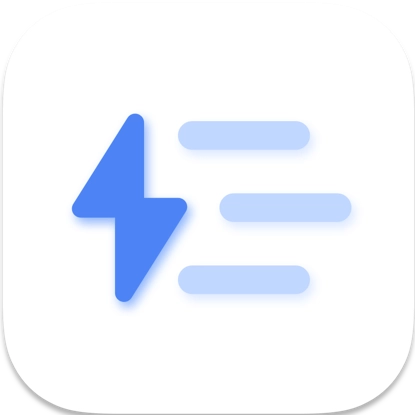
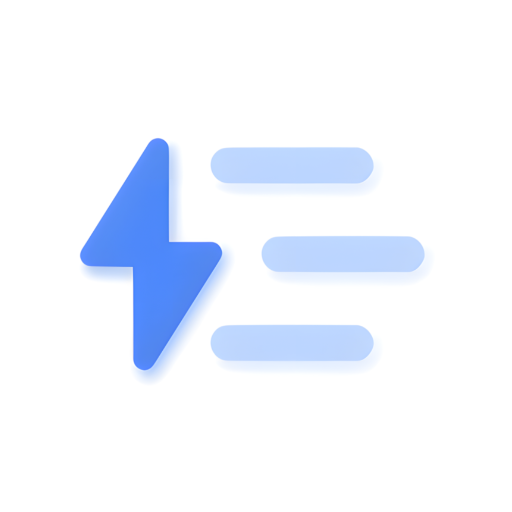
feat(startup): 添加开机自启功能
通过 HKCU Run 注册表键实现开机自启，同步设置状态，并在设置页面添加开关控制

diff --git a/src/win32/startup.rs b/src/win32/startup.rs
@@ -1,0 +1,158 @@
+//! Current-user autostart via `HKCU\\Software\\Microsoft\\Windows\\CurrentVersion\\Run`.
+
+use anyhow::{Context, Result, bail};
+use windows::Win32::Foundation::ERROR_FILE_NOT_FOUND;
+use windows::Win32::System::Registry::{
+    HKEY, HKEY_CURRENT_USER, KEY_SET_VALUE, KEY_WRITE, REG_OPTION_NON_VOLATILE, REG_SAM_FLAGS,
+    REG_SZ, RRF_RT_REG_SZ, RegCloseKey, RegCreateKeyExW, RegDeleteValueW, RegGetValueW,
+    RegSetValueExW,
+};
+use windows::core::{Error, PCWSTR};
+
+use crate::settings::Settings;
+use crate::version::PROCESS_BASE_NAME;
+
+const RUN_KEY_PATH: &str = "Software\\Microsoft\\Windows\\CurrentVersion\\Run";
+
+fn wide_null(s: &str) -> Vec<u16> {
+    s.encode_utf16().chain(std::iter::once(0)).collect()
+}
+
+fn win32_ok(status: windows::Win32::Foundation::WIN32_ERROR) -> Result<()> {
+    if status.is_ok() {
+        Ok(())
+    } else {
+        Err(Error::from(status).into())
+    }
+}
+
+/// Command line written to the Run key (quoted when the path contains spaces).
+pub fn startup_command() -> Result<String> {
+    let exe = std::env::current_exe().context("current_exe unavailable")?;
+    let path = exe.display().to_string();
+    Ok(if path.contains(' ') {
+        format!("\"{path}\"")
+    } else {
+        path
+    })
+}
+
+pub fn is_enabled() -> bool {
+    read_value().is_ok()
+}
+
+pub fn set_enabled(enabled: bool) -> Result<()> {
+    if enabled {
+        write_value(&startup_command()?)
+    } else {
+        delete_value()
+    }
+}
+
+pub fn sync(settings: &Settings) -> Result<()> {
+    set_enabled(settings.run_at_startup)
+}
+
+fn read_value() -> Result<String> {
+    let subkey = wide_null(RUN_KEY_PATH);
+    let value_name = wide_null(PROCESS_BASE_NAME);
+
+    let mut byte_len = 0u32;
+    let status = unsafe {
+        RegGetValueW(
+            HKEY_CURRENT_USER,
+            PCWSTR(subkey.as_ptr()),
+            PCWSTR(value_name.as_ptr()),
+            RRF_RT_REG_SZ,
+            None,
+            None,
+            Some(&mut byte_len),
+        )
+    };
+    if !status.is_ok() || byte_len < size_of::<u16>() as u32 {
+        bail!("startup registry value missing");
+    }
+
+    let mut buffer = vec![0u8; byte_len as usize];
+    win32_ok(unsafe {
+        RegGetValueW(
+            HKEY_CURRENT_USER,
+            PCWSTR(subkey.as_ptr()),
+            PCWSTR(value_name.as_ptr()),
+            RRF_RT_REG_SZ,
+            None,
+            Some(buffer.as_mut_ptr().cast()),
+            Some(&mut byte_len),
+        )
+    })?;
+
+    let wide_len = (byte_len as usize / size_of::<u16>()).saturating_sub(1);
+    let wide: &[u16] =
+        unsafe { std::slice::from_raw_parts(buffer.as_ptr().cast::<u16>(), wide_len) };
+    Ok(String::from_utf16_lossy(wide))
+}
+
+fn open_run_key(access: REG_SAM_FLAGS) -> Result<HKEY> {
+    let subkey = wide_null(RUN_KEY_PATH);
+    let mut key = HKEY::default();
+    win32_ok(unsafe {
+        RegCreateKeyExW(
+            HKEY_CURRENT_USER,
+            PCWSTR(subkey.as_ptr()),
+            None,
+            PCWSTR::null(),
+            REG_OPTION_NON_VOLATILE,
+            access,
+            None,
+            &mut key,
+            None,
+        )
+    })?;
+    Ok(key)
+}
+
+fn write_value(command: &str) -> Result<()> {
+    let key = open_run_key(KEY_SET_VALUE | KEY_WRITE)?;
+    let value_name = wide_null(PROCESS_BASE_NAME);
+    let data = wide_null(command);
+    let bytes: Vec<u8> = data.iter().flat_map(|unit| unit.to_le_bytes()).collect();
+    let result = win32_ok(unsafe {
+        RegSetValueExW(key, PCWSTR(value_name.as_ptr()), None, REG_SZ, Some(&bytes))
+    });
+    unsafe {
+        let _ = RegCloseKey(key);
+    }
+    result
+}
+
+fn delete_value() -> Result<()> {
+    let key = open_run_key(KEY_SET_VALUE | KEY_WRITE)?;
+    let value_name = wide_null(PROCESS_BASE_NAME);
+    let status = unsafe { RegDeleteValueW(key, PCWSTR(value_name.as_ptr())) };
+    let result = if status.is_ok() || status == ERROR_FILE_NOT_FOUND {
+        Ok(())
+    } else {
+        Err(Error::from(status).into())
+    };
+    unsafe {
+        let _ = RegCloseKey(key);
+    }
+    result
+}
+
+#[cfg(test)]
+mod tests {
+    use super::*;
+
+    #[test]
+    fn startup_command_quotes_paths_with_spaces() {
+        let command = startup_command().expect("current_exe");
+        let exe = std::env::current_exe().expect("current_exe");
+        let path = exe.display().to_string();
+        if path.contains(' ') {
+            assert_eq!(command, format!("\"{path}\""));
+        } else {
+            assert_eq!(command, path);
+        }
+    }
+}

diff --git a/src/ui/settings_page.rs b/src/ui/settings_page.rs
@@ -759,6 +759,25 @@ pub fn render_window_behavior_dialog(
         ))
         .child(switch_row_app(
             SwitchRowConfig {
+                id: "dialog-switch-run-at-startup",
+                icon: IconName::Play,
+                title: t!("settings.run_at_startup").to_string(),
+                description: t!("settings.run_at_startup_desc").to_string(),
+                checked: settings.run_at_startup,
+            },
+            muted,
+            foreground,
+            {
+                let weak = weak.clone();
+                move |checked, _window, cx| {
+                    let _ = weak.update(cx, |app, cx| {
+                        app.set_run_at_startup(*checked, cx);
+                    });
+                }
+            },
+        ))
+        .child(switch_row_app(
+            SwitchRowConfig {
                 id: "dialog-switch-optimization-notifications",
                 icon: IconName::Bell,
                 title: t!("settings.optimization_notifications").to_string(),

diff --git a/src/app.rs b/src/app.rs
@@ -557,6 +557,19 @@ impl MemoryCleanerApp {
         cx.notify();
     }
 
+    pub fn set_run_at_startup(&mut self, enabled: bool, cx: &mut Context<Self>) {
+        if let Err(error) = win32::startup::set_enabled(enabled) {
+            crate::log_msg(&format!(
+                "[startup] set_enabled({enabled}) failed: {error:#}"
+            ));
+            cx.notify();
+            return;
+        }
+        self.settings.run_at_startup = enabled;
+        self.queue_settings_save(cx);
+        cx.notify();
+    }
+
     pub fn set_show_optimization_notifications(&mut self, enabled: bool, cx: &mut Context<Self>) {
         self.settings.show_optimization_notifications = enabled;
         self.queue_settings_save(cx);

diff --git a/src/settings.rs b/src/settings.rs
@@ -6,6 +6,8 @@ use std::path::PathBuf;
 #[serde(default)]
 pub struct Settings {
     pub always_on_top: bool,
+    /// Launch with Windows via the current-user Run registry key.
+    pub run_at_startup: bool,
     pub close_to_notification_area: bool,
     pub show_virtual_memory: bool,
     pub memory_areas: u32,
@@ -35,6 +37,7 @@ impl Default for Settings {
     fn default() -> Self {
         Self {
             always_on_top: false,
+            run_at_startup: false,
             auto_optimization_interval: 0,
             auto_optimization_memory_usage: 0,
             close_to_notification_area: true,
@@ -194,6 +197,7 @@ mod tests {
     fn default_settings_match_documented_values() {
         let settings = Settings::default();
         assert!(settings.close_to_notification_area);
+        assert!(!settings.run_at_startup);
         assert!(settings.show_virtual_memory);
         assert!(settings.show_optimization_notifications);
         assert_eq!(settings.memory_areas, MemoryAreas::DEFAULT.bits());

diff --git a/src/main.rs b/src/main.rs
@@ -98,6 +98,9 @@ fn main() {
     }
 
     let settings = Settings::load();
+    if let Err(error) = win32::startup::sync(&settings) {
+        log_msg(&format!("[startup] sync failed: {error:#}"));
+    }
     locale::apply(&settings);
 
     if let Err(e) = win32::notification::init() {

diff --git a/src/win32/mod.rs b/src/win32/mod.rs
@@ -4,4 +4,5 @@ pub mod nt;
 pub mod os;
 pub mod process;
 pub mod single_instance;
+pub mod startup;
 pub mod window;

diff --git a/README.md b/README.md
@@ -1,5 +1,8 @@
-# Memory Cleanr
+<p align="center">
+  <img src="App.png" alt="Memory Cleanr" width="128" />
+</p>
 
+# Memory Cleanr
 Windows 内存清理工具，基于 Rust + GPUI 构建。提供实时内存监控、可配置的清理区域、系统托盘常驻、全局快捷键，以及一键优化。
 
 ## 功能